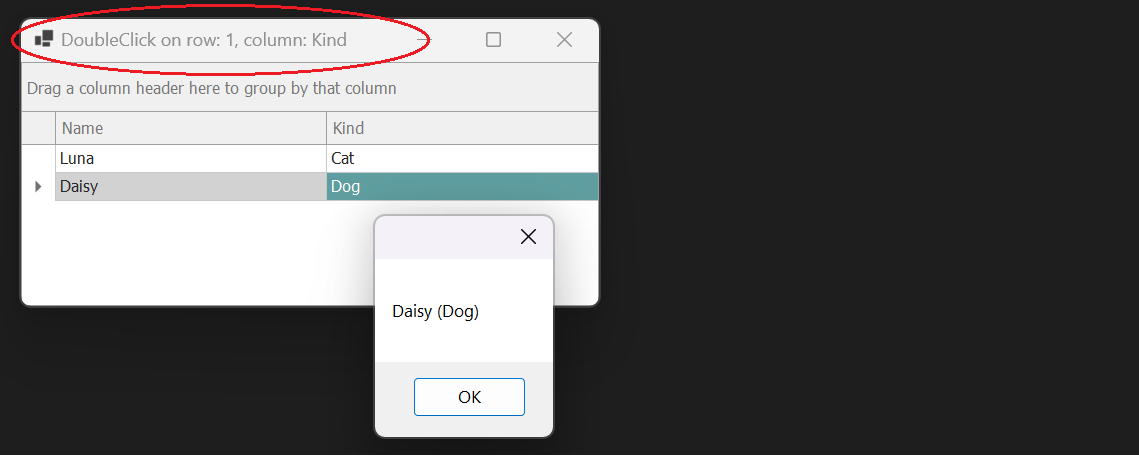
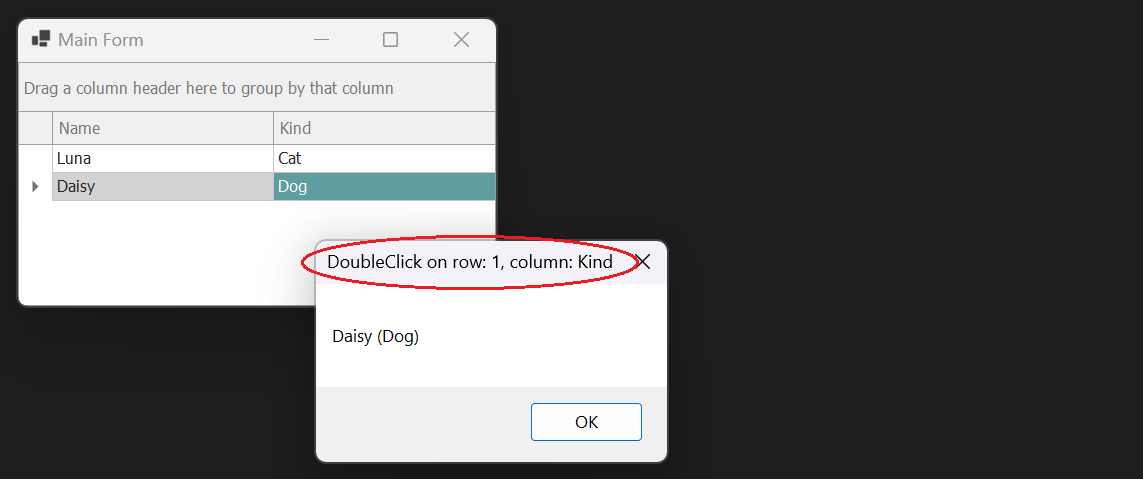
fwsm

Changed region(s): [[0.0, 0.0, 1.0, 1.0], [0.3995, 0.8253, 0.4302, 0.8547]]

diff --git a/grid-view-double-click-00/MainForm.cs b/grid-view-double-click-00/MainForm.cs
@@ -27,19 +27,19 @@ namespace grid_view_double_click_00
         private void onGridControlDoubleClick(object? sender, EventArgs e)
         {
             if (
-                     (sender is GridControl control) &&
-                     (e is DXMouseEventArgs args) &&
-                     (control.MainView is GridView gridView))
+                (sender is GridControl control) &&
+                (control.MainView is GridView gridView) &&
+                (e is DXMouseEventArgs args))
             {
                 var hittest = gridView.CalcHitInfo(args.Location);
-
-                // Set title bar text
-                Text = $"DoubleClick on row: {hittest.RowHandle}, column: {hittest.Column.GetCaption()}";
 
                 // BTW don't block the double-click event to do this.
                 BeginInvoke(() =>
                 {
-                    MessageBox.Show(Animals[hittest.RowHandle].ToString());
+                    MessageBox.Show(
+                       text: Animals[hittest.RowHandle].ToString(),
+                       caption: $"DoubleClick on row: {hittest.RowHandle}, column: {hittest.Column.GetCaption()}"
+                    );
                 });
             }
         }

diff --git a/grid-view-double-click-00/MainForm.Designer.cs b/grid-view-double-click-00/MainForm.Designer.cs
@@ -56,7 +56,7 @@ namespace grid_view_double_click_00
             // 
             this.AutoScaleDimensions = new System.Drawing.SizeF(10F, 25F);
             this.AutoScaleMode = System.Windows.Forms.AutoScaleMode.Font;
-            this.ClientSize = new System.Drawing.Size(578, 244);
+            this.ClientSize = new System.Drawing.Size(478, 244);
             this.Controls.Add(this.gridControl);
             this.Name = "MainForm";
             this.StartPosition = System.Windows.Forms.FormStartPosition.CenterScreen;

diff --git a/README.md b/README.md
@@ -1,6 +1,6 @@
 Your question is **How to get value of Row Double-Click Row in GridView** (DevExpress). 
 
-I reproduced this issue using a minimal form and I believe the problem is coming from `sender as GridView` which seems to evaluate null (because the sender `is GridControl` and evidently is not a compatible reference per the the [as](https://learn.microsoft.com/en-us/dotnet/csharp/language-reference/operators/type-testing-and-cast#as-operator) operator documentation). 
+I reproduced this issue using a minimal form and I believe the problem is coming from `sender as GridView` which seems to evaluate null (because the sender `is GridControl` and evidently is not a compatible reference per the [as](https://learn.microsoft.com/en-us/dotnet/csharp/language-reference/operators/type-testing-and-cast#as-operator) operator documentation). 
 
 When I cast the objects correctly, everything seems to work.
 
@@ -8,20 +8,19 @@ When I cast the objects correctly, everything seems to work.
     {
         if (
                (sender is GridControl control) &&
-               (e is DXMouseEventArgs args) &&
-               (control.MainView is GridView gridView))
+               (control.MainView is GridView gridView) &&
+               (e is DXMouseEventArgs args))
         {
             var hittest = gridView.CalcHitInfo(args.Location);
-
-            // Set title bar text
-            Text = $"DoubleClick on row: {hittest.RowHandle}, column: {hittest.Column.GetCaption()}";
 
             // BTW don't block the double-click event to do this.
             BeginInvoke(() =>
             {
-                MessageBox.Show(Animals[hittest.RowHandle].ToString());
+                MessageBox.Show(
+                    text: Animals[hittest.RowHandle].ToString(),
+                    caption: $"DoubleClick on row: {hittest.RowHandle}, column: {hittest.Column.GetCaption()}"
+                );
             });
-        }
         }
     }
 
@@ -46,17 +45,21 @@ My [minimal reproducible example](https://stackoverflow.com/help/minimal-reprodu
         }
         private void onGridControlDoubleClick(object? sender, EventArgs e)
         {
-            if ((sender is GridControl control) && e is DXMouseEventArgs args)
+            if (
+                   (sender is GridControl control) &&
+                   (control.MainView is GridView gridView) &&
+                   (e is DXMouseEventArgs args))
             {
-                var hittest = (GridHitInfo)control.MainView.CalcHitInfo(args.Location);
+                var hittest = gridView.CalcHitInfo(args.Location);
 
-                // Set title bar text
-                Text = $"DoubleClick on row: {hittest.RowHandle}, column: {hittest.Column.GetCaption()}";
-
-                // BTW don't block the click event to do this.
+                // BTW don't block the double-click event to do this.
                 BeginInvoke(() =>
-                    MessageBox.Show(Animals[hittest.RowHandle].ToString())
-                );
+                {
+                    MessageBox.Show(
+                       text: Animals[hittest.RowHandle].ToString(),
+                       caption: $"DoubleClick on row: {hittest.RowHandle}, column: {hittest.Column.GetCaption()}"
+                    );
+                });
             }
         }
         public BindingList<Animal> Animals { get; } = new BindingList<Animal>();
@@ -73,8 +76,7 @@ My [minimal reproducible example](https://stackoverflow.com/help/minimal-reprodu
         public string ID { get; set; } = Guid.NewGuid().ToString().Substring(0,8);
         public string? Name { get; set; }
         public Kind Kind { get; set; }
-        public override string ToString() => $"{Name}, {Kind}";
+        public override string ToString() => $"{Name} ({Kind})";
     }
-
 
   [1]: https://i.stack.imgur.com/rjahF.png
